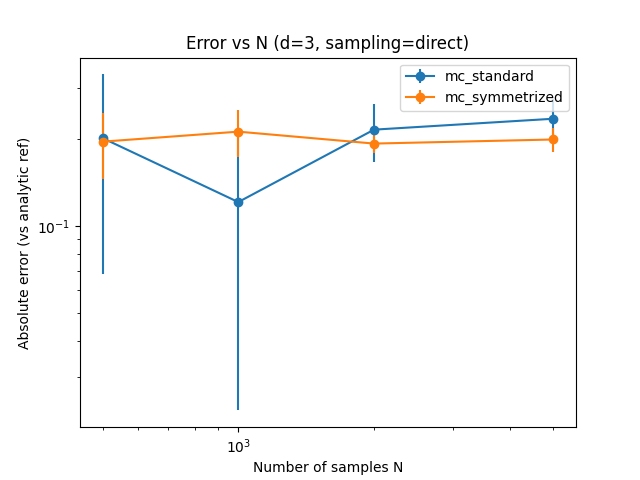
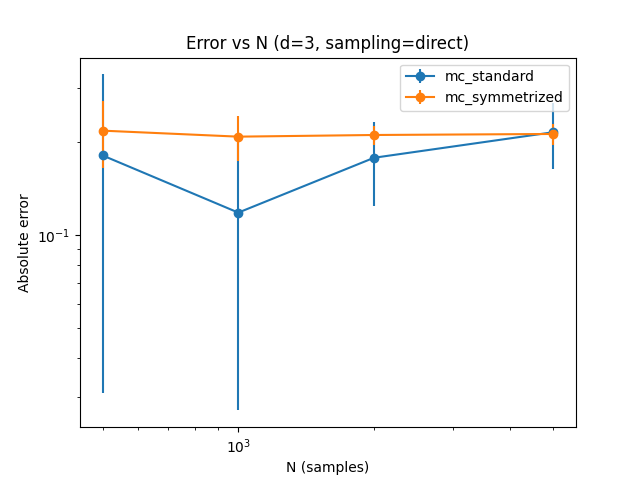
dims 2,3,4

diff --git a/scripts/run_experiments.py b/scripts/run_experiments.py
@@ -1,75 +1,98 @@
-#scripts/run_experiments.py
+# scripts/run_experiments.py
+
 import os
 import numpy as np
 import pandas as pd
 import matplotlib.pyplot as plt
 
-from src.utils import set_seed, f_from_points, volume_ball, f_radial_norm2, analytic_integral_radial_norm2
+from src.utils import (
+    set_seed,
+    f_from_points,
+    volume_ball,
+    f_radial_norm2,
+    analytic_integral_radial_norm2
+)
+
 from src.integration import spherical_grid_integral_equal_m
 from src.montecarlo import mc_estimate_with_repeats
 
-try:
-    from src.integration import spherical_grid_integral_equal_m
-    HAVE_3D_DET = True
-except Exception:
-    HAVE_3D_DET = False
-    
-OUTPUT_DIR = 'outputs'
+# Output directory
+OUTPUT_DIR = "outputs"
 os.makedirs(OUTPUT_DIR, exist_ok=True)
 
-def run_mc_for_config(f_points, d, sampling, N_mc, repeats=10, symmetrize=True):
+
+def run_mc_for_config(f_points, d, sampling, N_mc, repeats=10):
     """
-    Run MC experiments for the given integrand f_points (callable),
-    dimension d, sampling mode, Ns in N_mc, and repeats.
-    Returns a DataFrame of results.
+    Run both standard MC and symmetrized MC for a given integrand.
+
+    Returns:
+        DataFrame with columns:
+        method, d, sampling, N, n_evals, mean_est, std_est
     """
     out_rows = []
-    # Standard MC
-    mc_std = mc_estimate_with_repeats(f_points, N_mc, repeats=repeats, symmetrize=False, d=d, sampling=sampling)
-    # Symmetrized MC
-    mc_sym = mc_estimate_with_repeats(f_points, N_mc, repeats=repeats, symmetrize=True, d=d, sampling=sampling)
+
+    mc_std = mc_estimate_with_repeats(
+        f_points, N_mc, repeats=repeats,
+        symmetrize=False, d=d, sampling=sampling
+    )
+
+    mc_sym = mc_estimate_with_repeats(
+        f_points, N_mc, repeats=repeats,
+        symmetrize=True, d=d, sampling=sampling
+    )
 
     for N in N_mc:
-        ests = mc_std[N]['estimates']
-        n_evals_std = mc_std[N]['n_evals']
-        rows_std = {
-            'method': 'mc_standard',
-            'd': d,
-            'sampling': sampling,
-            'N': N,
-            'n_evals': n_evals_std,
-            'mean_est': np.mean(ests),
-            'std_est': np.std(ests, ddof=1),
-            'abs_error_mean': None  # fill later once reference known
-        }
-        out_rows.append(rows_std)
 
-        ests_s = mc_sym[N]['estimates']
-        n_evals_sym = mc_sym[N]['n_evals']
-        rows_sym = {
-            'method': 'mc_symmetrized',
-            'd': d,
-            'sampling': sampling,
-            'N': N,
-            'n_evals': n_evals_sym,
-            'mean_est': np.mean(ests_s),
-            'std_est': np.std(ests_s, ddof=1),
-            'abs_error_mean': None
-        }
-        out_rows.append(rows_sym)
+        # Standard Monte Carlo
+        ests = mc_std[N]["estimates"]
+        out_rows.append({
+            "method": "mc_standard",
+            "d": d,
+            "sampling": sampling,
+            "N": N,
+            "n_evals": mc_std[N]["n_evals"],
+            "mean_est": float(np.mean(ests)),
+            "std_est": float(np.std(ests, ddof=1)),
+        })
 
-    df = pd.DataFrame(out_rows)
-    return df
+        # Symmetrized MC
+        ests_s = mc_sym[N]["estimates"]
+        out_rows.append({
+            "method": "mc_symmetrized",
+            "d": d,
+            "sampling": sampling,
+            "N": N,
+            "n_evals": mc_sym[N]["n_evals"],
+            "mean_est": float(np.mean(ests_s)),
+            "std_est": float(np.std(ests_s, ddof=1)),
+        })
 
-def run_reference_integral(m_ref=80):
-    """Compute a deterministic integral used as true value.
+    return pd.DataFrame(out_rows)
+
+
+def compute_reference_value(d):
     """
-    print(f"Computing reference integral with m={m_ref} (this may take a while)...")
-    integral_ref, n_evals = spherical_grid_integral_equal_m(f_from_points, m_ref)
-    print(f"Reference integral computed. n_evals={n_evals}")
-    return integral_ref
+    Returns:
+        reference_value, reference_type, integrand_function
+    """
 
-def run_all_experiments(d_list=[2,3,4], sampling_modes=['direct','rejection']):
+    # d = 2 and d = 4 use radial analytic integrand
+    if d in [2, 4]:
+        ref = analytic_integral_radial_norm2(d)
+        return ref, f"analytic radial reference for d={d}", f_radial_norm2
+
+    # d = 3 uses the actual project integrand f(x,y,z)
+    if d == 3:
+        print("Computing deterministic grid reference for d=3 integrand...")
+        ref, n_evals = spherical_grid_integral_equal_m(f_from_points, m=80)
+        print(f"Reference value = {ref:.8f} (n_evals={n_evals})")
+        return ref, "deterministic spherical grid (m=80) for d=3", f_from_points
+
+    raise ValueError("Unsupported dimension")
+
+
+def run_all_experiments(d_list=[2,3,4], sampling_modes=["direct","rejection"]):
+
     set_seed(12345)
 
     N_mc = [500, 1000, 2000, 5000]
@@ -78,84 +101,85 @@ def run_all_experiments(d_list=[2,3,4], sampling_modes=['direct','rejection']):
     summary_rows = []
 
     for d in d_list:
-        # default: use radial integrand and analytic reference
-        f_points = f_radial_norm2
-        integral_ref = analytic_integral_radial_norm2(d)
-        print(f"\n=== Dimension d={d} (analytic ref for ||x||^2) ===")
-        print(f"Analytic reference integral (radial norm^2): {integral_ref:.8g}")
 
-        # compute 3D deterministic reference if available (for the original 3D integrand)
-        det_ref = None
-        if d == 3 and HAVE_3D_DET:
-            try:
-                # spherical_grid_integral_equal_m returns (integral, n_evals)
-                integral_det, n_evals_det = spherical_grid_integral_equal_m(f_from_points, m=80)
-                det_ref = integral_det
-                print(f"Deterministic 3D reference (grid m=80) for original integrand: {det_ref:.8g} (n_evals={n_evals_det})")
-            except Exception as e:
-                print("Warning: deterministic 3D reference could not be computed:", e)
-                det_ref = None
+        # Get the correct integrand + reference value
+        reference_value, reference_type, f_points = compute_reference_value(d)
 
-        # if d==3, switch the MC experiment to use the original 3D integrand and, if available, use the deterministic grid result as the MC reference
-        if d == 3:
-            # use original 3D integrand for MC runs
-            f_points = f_from_points
-            # if we successfully computed a deterministic reference on f_from_points, use it
-            if det_ref is not None:
-                integral_ref = det_ref
-                print(f"Using deterministic grid reference as analytic reference for d=3 (original integrand): {integral_ref:.8g}")
-            else:
-                # fallback: no deterministic ref available; keep analytic radial ref or warn
-                print("Note: deterministic 3D reference not available; MC d=3 will be compared to analytic radial reference (not the original integrand).")
+        print("\n====================================================")
+        print(f"Running experiments for dimension d={d}")
+        print(f"Reference value = {reference_value:.8f}")
+        print(f"Reference type = {reference_type}")
+        print("====================================================\n")
 
-            for sampling in sampling_modes:
-                # skip rejection sampling for higher d if acceptance will be tiny
-                if sampling == 'rejection':
-                    # compute expected acceptance rate
-                    vol = volume_ball(1.0, d=d)
-                    acc_expected = vol / (2.0 ** d)
-                    print(f"[d={d}, sampling=rejection] expected acceptance = {acc_expected:.6g}")
-                print(f"-- running MC experiments for d={d}, sampling={sampling} --")
+        for sampling in sampling_modes:
 
-                df = run_mc_for_config(f_points, d=d, sampling=sampling, N_mc=N_mc, repeats=repeats, symmetrize=True)
+            # Rejection sampling acceptance info
+            if sampling == "rejection":
+                vol = volume_ball(1.0, d=d)
+                acc = vol / (2**d)
+                print(f"[d={d}, rejection] expected acceptance probability = {acc:.6f}")
 
-                # fill absolute error column using analytic reference
-                df['abs_error_mean'] = df['mean_est'].apply(lambda x: abs(x - integral_ref))
+            print(f"-- Running MC for d={d}, sampling='{sampling}' --")
 
-                csv_name = os.path.join(OUTPUT_DIR, f"mc_results_d{d}_{sampling}.csv")
-                df.to_csv(csv_name, index=False)
-                print(f"Saved results to: {csv_name}")
+            df = run_mc_for_config(
+                f_points=f_points,
+                d=d,
+                sampling=sampling,
+                N_mc=N_mc,
+                repeats=repeats
+            )
 
-                # plot (log-log) error vs N with std errorbars
-                plt.figure()
-                for method in df['method'].unique():
-                    dfm = df[df['method'] == method].sort_values('N')
-                    plt.errorbar(dfm['N'], dfm['abs_error_mean'], yerr=dfm['std_est'], label=method, marker='o')
-                plt.xscale('log')
-                plt.yscale('log')
-                plt.xlabel('Number of samples N')
-                plt.ylabel('Absolute error (vs analytic ref)')
-                plt.legend()
-                plt.title(f'Error vs N (d={d}, sampling={sampling})')
-                png_name = os.path.join(OUTPUT_DIR, f"mc_error_d{d}_{sampling}.png")
-                plt.savefig(png_name)
-                plt.close()
-                print(f"Saved plot to: {png_name}")
+            # Compute absolute and relative errors
+            df["reference_value"] = reference_value
+            df["reference_type"] = reference_type
+            df["abs_error"] = df["mean_est"].apply(lambda x: abs(x - reference_value))
+            df["relative_error"] = df["abs_error"] / abs(reference_value)
 
-                for method in df['method'].unique():
-                    dfm = df[df['method'] == method]
-                    summary_rows.append({
-                        'd': d,
-                        'sampling': sampling,
-                        'method': method,
-                        'N_values': ','.join(map(str, sorted(dfm['N'].unique()))),
-                        'mean_abs_error_over_N': float(dfm['abs_error_mean'].mean())
-                    })
+            # Save CSV
+            csv_path = os.path.join(OUTPUT_DIR, f"mc_results_d{d}_{sampling}.csv")
+            df.to_csv(csv_path, index=False)
+            print(f"Saved results: {csv_path}")
 
-        summary_df = pd.DataFrame(summary_rows)
-        summary_csv = os.path.join(OUTPUT_DIR, 'mc_experiments_summary.csv')
-        summary_df.to_csv(summary_csv, index=False)
-        print("\nAll experiments completed. Summary saved to:", summary_csv)
+            # Plot error vs N
+            plt.figure()
+            for method in df["method"].unique():
+                df_m = df[df["method"] == method].sort_values("N")
+                plt.errorbar(
+                    df_m["N"],
+                    df_m["abs_error"],
+                    yerr=df_m["std_est"],
+                    marker="o",
+                    label=method
+                )
+            plt.xscale("log")
+            plt.yscale("log")
+            plt.xlabel("N (samples)")
+            plt.ylabel("Absolute error")
+            plt.title(f"Error vs N (d={d}, sampling={sampling})")
+            plt.legend()
 
-if __name__ == '__main__':
+            png_path = os.path.join(OUTPUT_DIR, f"mc_error_d{d}_{sampling}.png")
+            plt.savefig(png_path)
+            plt.close()
+            print(f"Saved plot: {png_path}")
+
+            # Add to summary
+            for method in df["method"].unique():
+                mean_err = df[df["method"] == method]["abs_error"].mean()
+                summary_rows.append({
+                    "d": d,
+                    "sampling": sampling,
+                    "method": method,
+                    "mean_abs_error_over_N": float(mean_err)
+                })
+
+    # Save summary CSV
+    summary_df = pd.DataFrame(summary_rows)
+    summary_csv = os.path.join(OUTPUT_DIR, "mc_experiments_summary.csv")
+    summary_df.to_csv(summary_csv, index=False)
+    print("\nAll experiments complete.")
+    print(f"Summary saved to {summary_csv}")
+
+
+if __name__ == "__main__":
     run_all_experiments()
